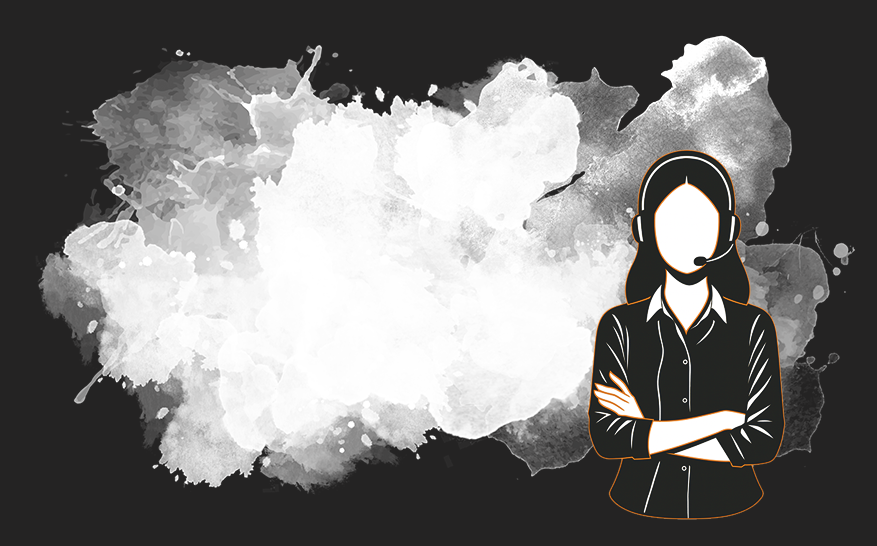
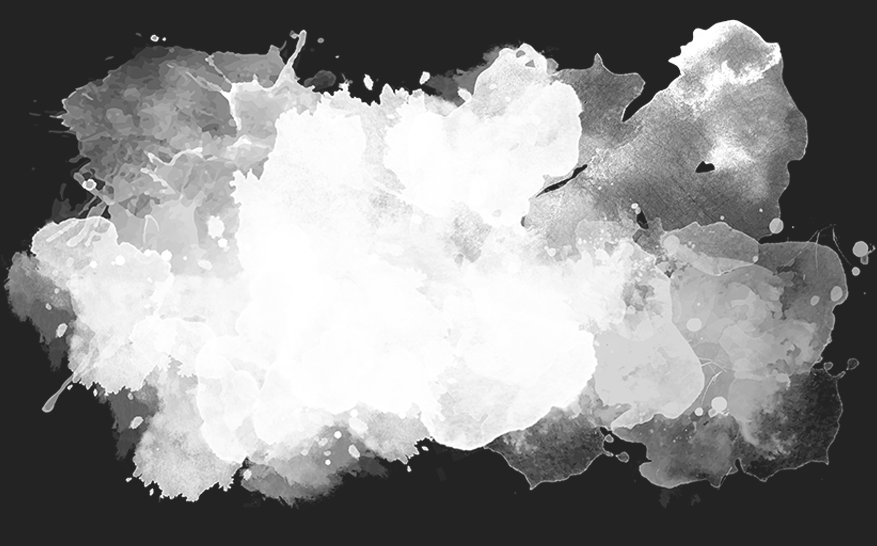
layout changes and tailormade section changes

diff --git a/src/app/tailormade_section.module.css b/src/app/tailormade_section.module.css
@@ -1,7 +1,7 @@
 .topic_text{
     font-family: Arial, Helvetica, sans-serif;
     color: white;
-    padding-top: 10vh;
+    padding-top: 10rem;
     font-size: clamp(1.5rem,2vw,2rem);
     text-align: left;
     padding-left: 4rem;
@@ -96,16 +96,16 @@
 
 .inquire_image{
     z-index: 1;
-    position: absolute;
-    right: 6rem;
-    bottom: 3rem;
-    height: 100%;
+    position: relative;
+    width: 50vw;
+    left: 5rem;
+    height: auto;
 
   background-image: url('../../public/background.jpg'); 
   background-attachment: fixed;
   background-repeat: no-repeat;
   background-position: right;
-  background-size: 60% auto;
+  background-size: 63% auto;
 }
 
 .inquire_image img{
@@ -172,6 +172,7 @@
         font-size: 1.3rem;
         text-align: center;
         padding-left: 0rem;
+        padding-top: 10rem;
     }
 
     .inquire_section{

diff --git a/src/app/page.jsx b/src/app/page.jsx
@@ -30,6 +30,7 @@ import image_destination_4 from "../../public/Destinations_Image_13.jpg";
 import image_destination_5 from "../../public/Destinations_Image_14.jpg";
 import image_destination_6 from "../../public/Destinations_Image_15.jpg";
 import image_destination_7 from "../../public/Destinations_Image_16.jpg";
+import background_image from "../../public/background.jpg";
 import { FaTripadvisor } from "react-icons/fa";
 import { db } from './lib/firebase';
 import { collection, addDoc } from 'firebase/firestore';
@@ -63,9 +64,6 @@ useEffect(() => {
     });
   }, 300);
 }, []);
-
-
-
 
 
 

diff --git a/src/app/services_section.module.css b/src/app/services_section.module.css
@@ -7,7 +7,7 @@
 .topic_text{
     font-family: Arial, Helvetica, sans-serif;
     color: white;
-    padding-top: 4rem;
+    padding-top: 0.5rem;
     font-size: clamp(1.5rem,2vw,2rem);
     text-align: left;
     padding-left: 4rem;
@@ -78,6 +78,7 @@
         align-items: center;
         justify-content: center; /* centers items */
         padding: 1rem;
+        padding-bottom: 3rem;
         gap: 0.5rem;
     }
     .services_section{

diff --git a/src/app/feedback_section.module.css b/src/app/feedback_section.module.css
@@ -1,7 +1,7 @@
 .topic_text{
     font-family: Arial, Helvetica, sans-serif;
     color: white;
-    padding-top: 20vh;
+    padding-top: 12rem;
     font-size: clamp(1.5rem,2vw,2rem);
     text-align: left;
     padding-left: 4rem;
@@ -160,7 +160,7 @@
 @media (max-width: 800px) {
 
 .topic_text{
-    padding-top: 4rem;
+    padding-top: 10rem;
     text-align: center;
     padding-left: 0;
     padding-bottom: 2rem;

diff --git a/src/app/footer_section.module.css b/src/app/footer_section.module.css
@@ -1,7 +1,7 @@
 .topic_text{
     font-family: Arial, Helvetica, sans-serif;
     color: white;
-    padding-top: 20vh;
+    padding-top: 12rem;
     font-size: clamp(1.5rem,2vw,2rem);
     text-align: left;
     padding-left: 4rem;
@@ -121,7 +121,7 @@
 
 @media (max-width: 800px) {
 .topic_text{
-    padding-top: 4rem;
+    padding-top: 10rem;
     font-size: 1.3rem;
     text-align: center;
     padding-left: 0;

diff --git a/src/app/whyus_section.module.css b/src/app/whyus_section.module.css
@@ -1,7 +1,7 @@
 .topic_text{
     font-family: Arial, Helvetica, sans-serif;
     color: white;
-    padding-top: 10vh;
+    padding-top: 10rem;
     font-size: clamp(1.5rem,2vw,2rem);
     text-align: left;
     padding-left: 4rem;
